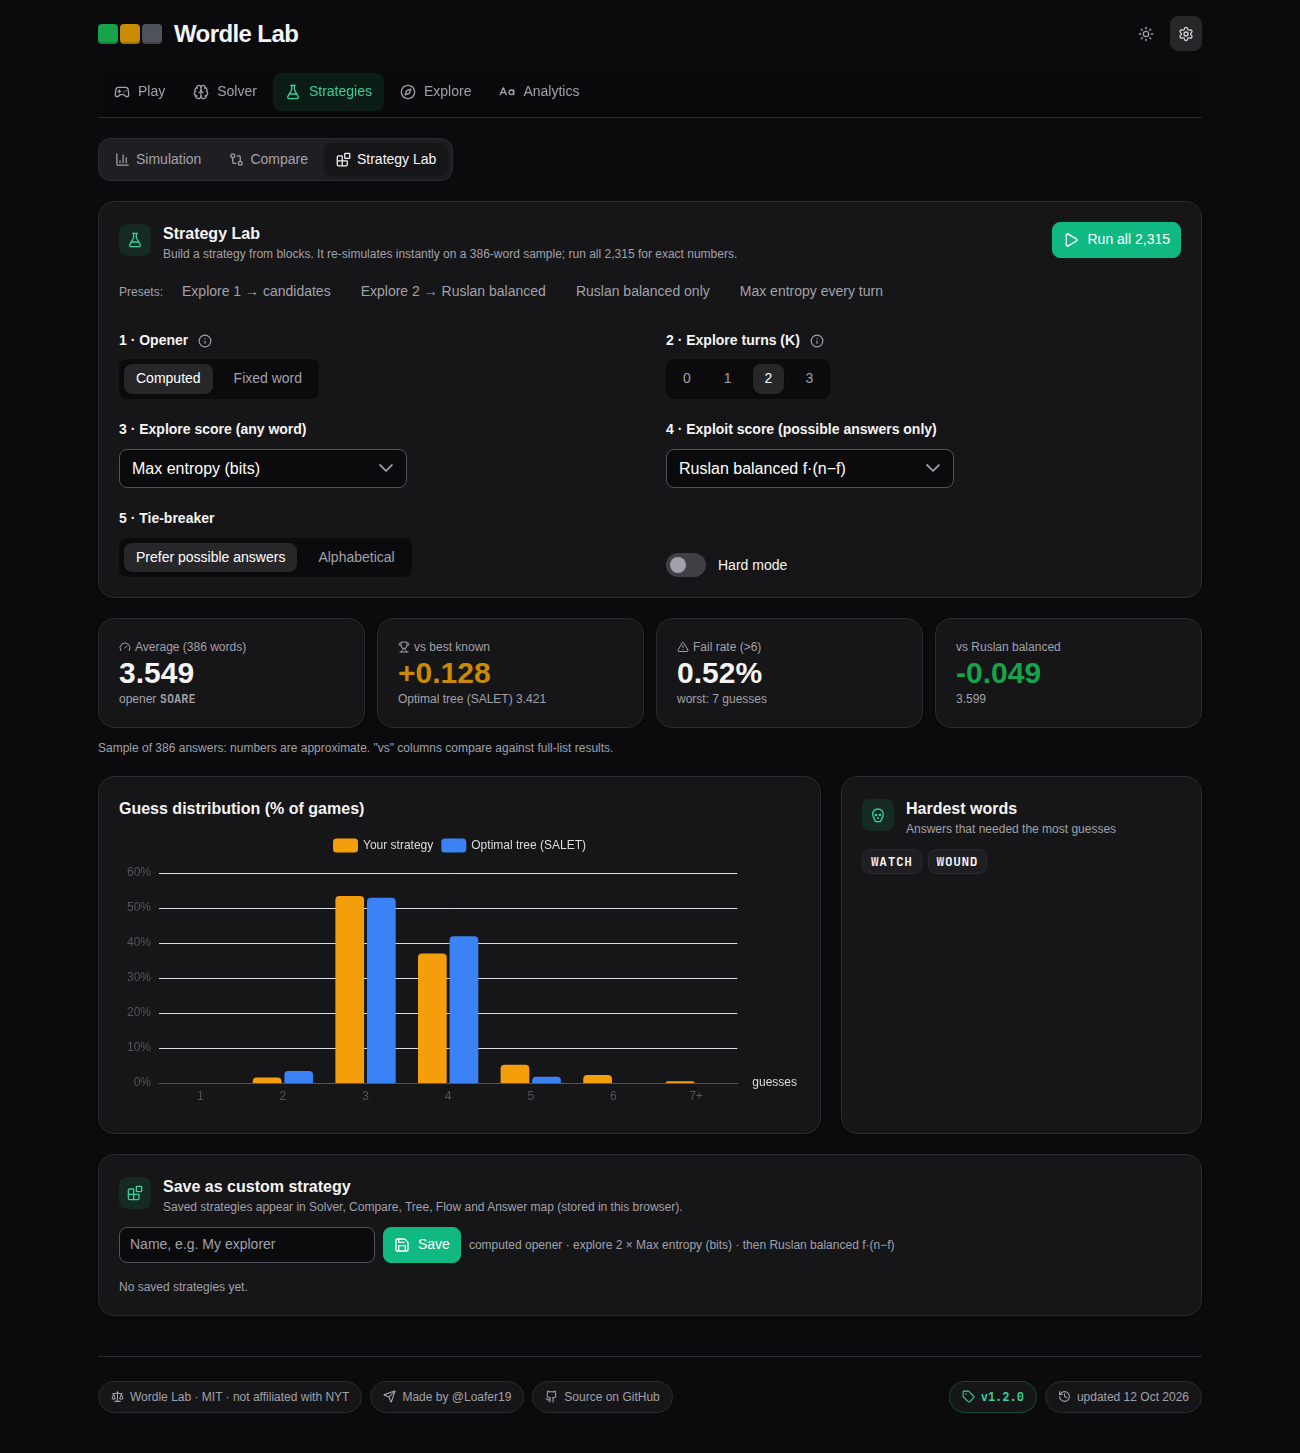
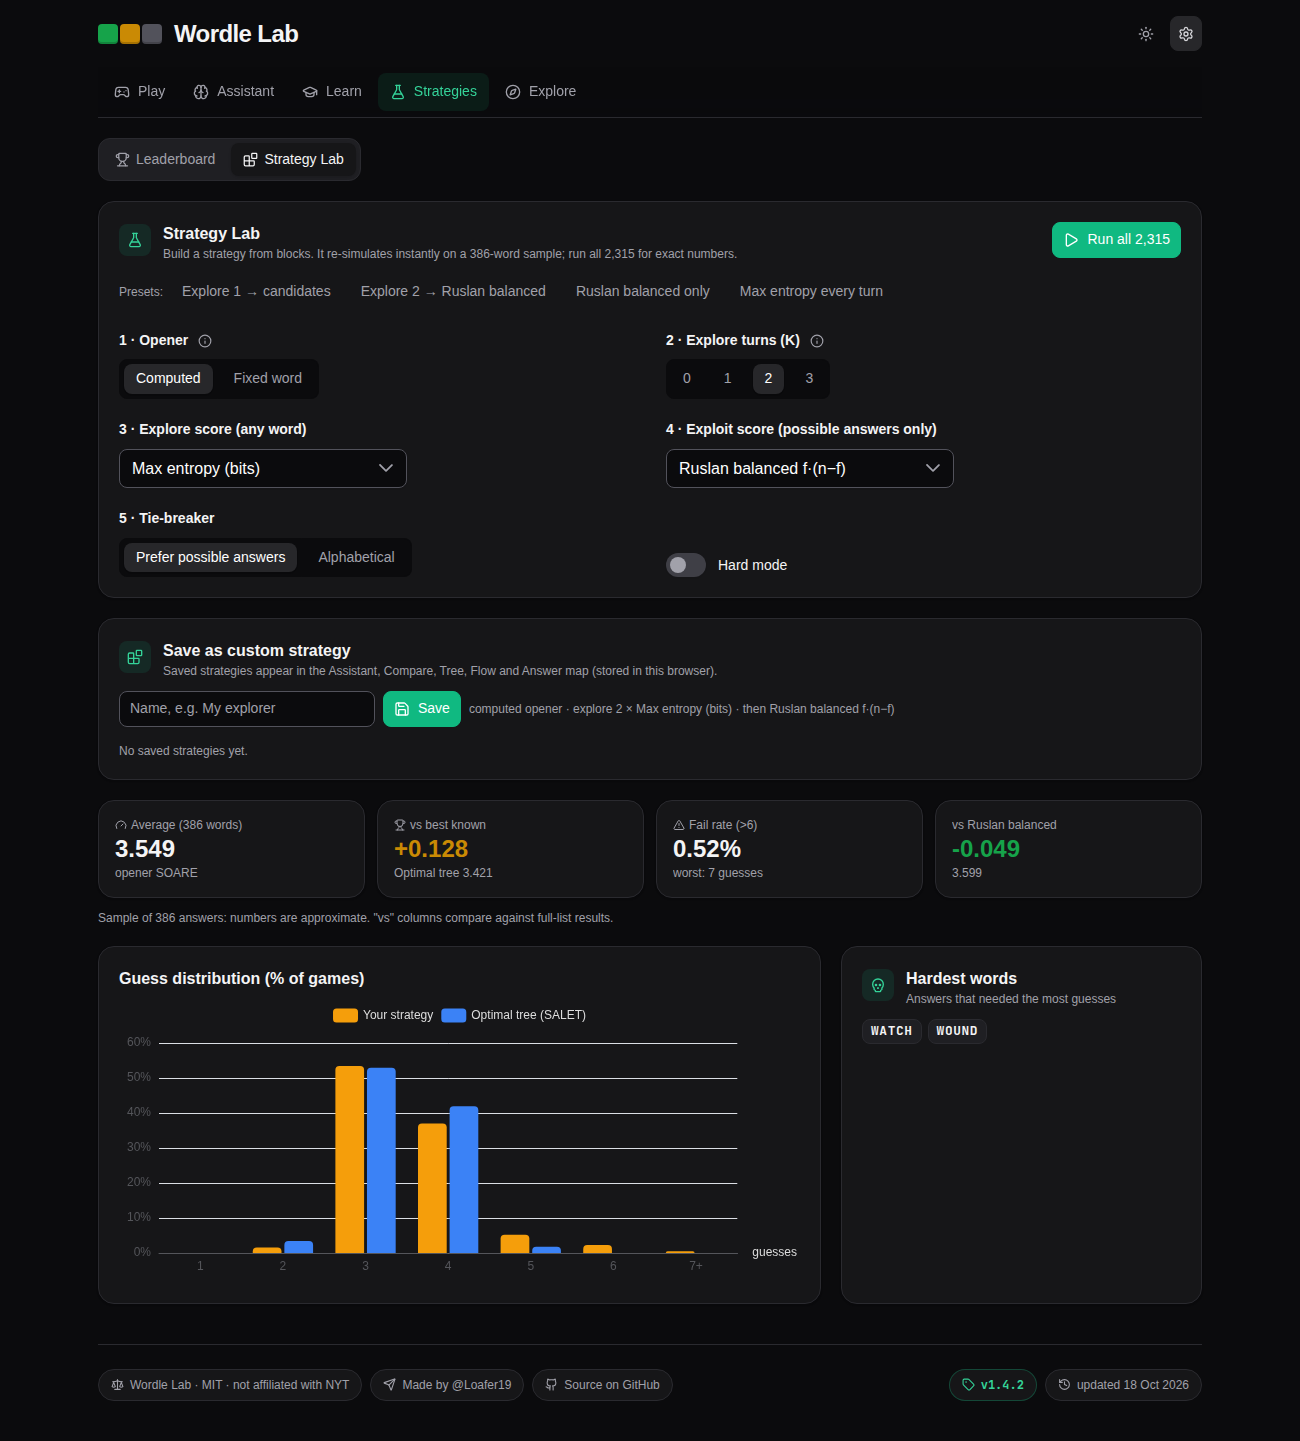
chore: v1.4.2 — CHANGELOG, README (feature list, refreshed screenshots in docs/readme via scripts/readme-shots.ts)

diff --git a/scripts/readme-shots.ts b/scripts/readme-shots.ts
@@ -1,0 +1,68 @@
+// README screenshots into docs/readme/ (run against a preview build so the footer shows the release version):
+//   bun run build && bunx vite preview --port 4173 & BASE_URL=http://localhost:4173 bun scripts/readme-shots.ts
+import { chromium, type Page } from 'playwright-core'
+const BASE = process.env.BASE_URL ?? 'http://localhost:4173', CHROME = process.env.CHROME ?? '/usr/bin/google-chrome-stable', OUT = process.env.OUT ?? 'docs/readme'
+const b = await chromium.launch({ executablePath: CHROME })
+const DESK = { width: 1300, height: 1000 }, PHONE = { width: 390, height: 844 }
+async function page(o: { lang?: 'en' | 'ua'; theme?: 'dark' | 'light'; vp?: { width: number; height: number }; motion?: boolean } = {}) {
+  const ctx = await b.newContext({ viewport: o.vp ?? DESK, deviceScaleFactor: o.vp === PHONE ? 2 : 1, reducedMotion: o.motion ? 'no-preference' : 'reduce' })
+  await ctx.addInitScript(([l, t]) => { localStorage.setItem('wl-lang', l); localStorage.setItem('vueuse-color-scheme', t) }, [o.lang ?? 'en', o.theme ?? 'dark'])
+  const p = await ctx.newPage(); const errs: string[] = []
+  p.on('pageerror', e => errs.push(e.message)); p.on('console', m => { if (m.type() === 'error') errs.push(m.text()) })
+  return { p, errs, close: () => ctx.close() }
+}
+const go = async (p: Page, tab: string, wait = 2200) => { await p.goto(`${BASE}/#tab=${tab}`); await p.reload(); await p.waitForTimeout(wait) }
+// the share text links to the current origin; show the public site instead of localhost
+const publicUrl = (p: Page) => p.evaluate(() => { const w = document.createTreeWalker(document.body, NodeFilter.SHOW_TEXT); for (let n = w.nextNode(); n; n = w.nextNode()) n.nodeValue = n.nodeValue!.replace(/https?:\/\/localhost:\d+\/?/g, 'https://wordle.fundsflow.fun') })
+const shot = async (p: Page, name: string, fullPage = true) => { await publicUrl(p); await p.screenshot({ path: `${OUT}/${name}.png`, fullPage }); console.log('✓', name) }
+const type = async (p: Page, w: string) => { for (const c of w) await p.click(`[role=group] button[aria-label="${c}"]`); await p.keyboard.press('Enter') }
+// today's daily answer, computed the way PlayView does
+const daily = (p: Page, lang: string) => p.evaluate(async l => {
+  const a = (await (await fetch((l === 'ua' ? '/ua/' : '/') + 'answers.txt')).text()).split(/\s+/).filter(Boolean)
+  const d = Math.floor((Date.now() - new Date(2021, 5, 19).getTime()) / 864e5); return a[(d * 7919) % a.length]
+}, lang)
+const all: string[] = []
+async function run(name: string, f: (p: Page) => Promise<void>, o: Parameters<typeof page>[0] = {}) {
+  if (process.env.ONLY && !process.env.ONLY.split(',').includes(name)) return
+  const { p, errs, close } = await page(o)
+  try { await f(p) } catch (e) { console.log('✗', name, (e as Error).message.slice(0, 300)) }
+  if (errs.length) all.push(`${name}: ${errs.join(' | ').slice(0, 300)}`)
+  await close()
+}
+
+await run('hero + play-after', async p => {
+  await go(p, 'play'); const ans = await daily(p, 'en')
+  await type(p, ans === 'crane' ? 'slate' : 'crane'); await p.waitForTimeout(1800); await type(p, ans); await p.waitForTimeout(2800)
+  await shot(p, 'hero', false)
+  await p.waitForSelector('[data-play-coach] [data-coach-step]', { timeout: 30000 }); await p.waitForSelector('[data-play-optimal] [data-replay-step]', { timeout: 30000 }); await p.waitForTimeout(1500)
+  await shot(p, 'play-after')
+}, { motion: true, vp: { width: 1400, height: 900 } })
+await run('leaderboard', async p => { await go(p, 'strategies&view=leaderboard'); await shot(p, 'leaderboard') })
+await run('ua-leaderboard', async p => { await go(p, 'strategies&view=leaderboard'); await shot(p, 'ua-leaderboard') }, { lang: 'ua' })
+await run('compare', async p => { await go(p, 'strategies&view=compare', 3000); await p.waitForSelector('[data-diffs]', { timeout: 30000 }); await p.waitForTimeout(800); await shot(p, 'dark-compare') })
+await run('light-compare', async p => { await go(p, 'strategies&view=compare', 3000); await p.waitForSelector('[data-diffs]', { timeout: 30000 }); await p.waitForTimeout(800); await shot(p, 'light-compare') }, { theme: 'light' })
+await run('lab', async p => { await go(p, 'strategies&view=lab', 4000); await p.waitForSelector('[data-lab-avg]'); await p.waitForTimeout(2500); await shot(p, 'dark-lab') })
+await run('assist', async p => { await go(p, 'assistant&view=solve'); await shot(p, 'dark-assist') })
+await run('review', async p => { await go(p, 'assistant&view=review'); await p.waitForSelector('[data-coach-step]', { timeout: 30000 }); await p.waitForTimeout(1000); await shot(p, 'review') })
+await run('watch', async p => {
+  await go(p, 'assistant&view=watch', 3000); await p.waitForSelector('[data-watch-review] [data-coach-step]', { timeout: 60000 })
+  await p.click('[data-watch-all]'); await p.waitForSelector('[data-watch-all-list] li', { timeout: 30000 }); await p.waitForSelector('[data-watch-cancel]', { state: 'detached', timeout: 120000 }); await p.waitForTimeout(800)
+  await shot(p, 'watch')
+})
+await run('openers', async p => { await go(p, 'learn&view=openers'); await shot(p, 'dark-openers') })
+await run('light-patterns', async p => { await go(p, 'learn&view=inspector'); await shot(p, 'light-patterns') }, { theme: 'light' })
+await run('tree', async p => { await go(p, 'explore&view=tree', 3000); await p.waitForSelector('canvas', { timeout: 20000 }); await p.waitForTimeout(1500); await shot(p, 'dark-tree') })
+await run('tree-opener', async p => {
+  await go(p, 'explore&view=tree', 3000); await p.waitForSelector('canvas', { timeout: 20000 })
+  await p.fill('[data-tree-opener]', 'crane'); await p.click('[data-tree-opener-apply]'); await p.waitForSelector('[data-tree-stat-row=cus]', { timeout: 90000 }); await p.waitForTimeout(1500)
+  await shot(p, 'tree-opener')
+})
+await run('flow', async p => { await go(p, 'explore&view=flow', 3000); await p.waitForTimeout(1500); await shot(p, 'dark-flow') })
+await run('map', async p => { await go(p, 'explore&view=map', 3000); await p.waitForTimeout(1500); await shot(p, 'dark-map') })
+await run('ua-play-mob', async p => {
+  await go(p, 'play'); const ans = await daily(p, 'ua'); await type(p, ans === 'котра' ? 'сопло' : 'котра'); await p.waitForTimeout(2200); await shot(p, 'ua-play-mob', false)
+}, { lang: 'ua', vp: PHONE })
+await run('leaderboard-mob', async p => { await go(p, 'strategies&view=leaderboard'); await shot(p, 'leaderboard-mob', false) }, { vp: PHONE })
+await run('tree-mob', async p => { await go(p, 'explore&view=tree', 3000); await shot(p, 'tree-mob', false) }, { vp: PHONE })
+await b.close()
+console.log(all.length ? 'console errors:\n' + all.join('\n') : 'no console errors')

diff --git a/README.md b/README.md
@@ -2,9 +2,10 @@
 
 # 🟩🟨⬛ Wordle Lab
 
-**Play Wordle, get a solver that explains every guess, and see how 13 strategies compare across all 2,315 answers.**
+**Play Wordle, get a solver that explains every guess, and see how 14 strategies compare across all 2,315 answers (and 1,717 Ukrainian ones).**
 
 [![Live demo](https://img.shields.io/badge/live%20demo-wordle.fundsflow.fun-16a34a?style=for-the-badge)](https://wordle.fundsflow.fun)
+[![Release](https://img.shields.io/github/v/release/Loafer19/wordle-lab?style=for-the-badge&color=16a34a)](https://github.com/Loafer19/wordle-lab/releases/latest)
 [![License: MIT](https://img.shields.io/badge/license-MIT-blue?style=for-the-badge)](LICENSE)
 <br/>
 ![Bun](https://img.shields.io/badge/Bun-000?logo=bun&logoColor=fff)
@@ -14,7 +15,7 @@
 ![PrimeVue](https://img.shields.io/badge/PrimeVue%204-41B883)
 ![ECharts](https://img.shields.io/badge/ECharts-AA344D?logo=apacheecharts&logoColor=fff)
 
-<img src="docs/readme/hero.png" alt="Wordle Lab: a winning game with confetti" width="860" />
+<img src="docs/readme/hero.png" alt="Wordle Lab: a daily game won in two, with the share card, stats and the word's meaning" width="860" />
 
 </div>
 
@@ -22,22 +23,23 @@
 
 | | |
 |---|---|
-| 🎮 **Play** | Daily word with a countdown to the next one, or random games. Hard mode, flip/bounce/confetti animations, stats and the **word's meaning**. After each game: a per-guess **review**, **how the optimal strategy solves the same word**, and a **share card** with your skill and luck. Your **player fingerprint** tracks skill and luck over time (stored in your browser). |
-| 🧭 **Assistant** | **Help me now:** type your guess, tap the tiles to match your colours, and get the next best word with a plain-language reason (undo, demo, shortcuts, the provably optimal tree). **Review a game:** paste any result, e.g. `ARISE(⬜⬜⬜🟨⬜) CLOTH(⬜⬜🟩🟨⬜)`. **Watch a strategy:** pick a word and a strategy and watch it play. All three use the same per-guess card: bits gained vs expected, the best move by entropy and by the optimal tree, luck, and tips. |
-| 🎓 **Learn** | A four-step **guide** (letters → patterns → entropy → trees), letter and positional frequencies, the **top openers**, and the **Word inspector** (all 243 colour patterns of any guess, its entropy and its worst case). The opener-pairs heatmap is under *Advanced*. |
-| 🧪 **Strategies** | One **leaderboard** of every strategy on every answer: average, gap to the proven optimum, fail % and worst case, with Normal/Hard/Both. Tick two rows to **Compare** them. The **Strategy Lab** builds a strategy from blocks and saves it for the other views. More charts and Web Worker re-runs (cached in IndexedDB) are collapsed. |
-| 🔭 **Explore** | The optimal decision **Tree**, a **Flow** sankey of how the answer set shrinks, and an **Answer map** of how hard each word is. On phones, Tree and Flow switch to list drill-downs. |
-| 🇺🇦 **Ukrainian** | EN/UA switch in Settings: the whole interface in Ukrainian, Ukrainian word lists, a ЙЦУКЕН keyboard (ґ, є, і, ї), and every strategy simulated on Ukrainian answers. |
+| 🎮 **Play** | Daily word with a countdown to the next one, or random games. Hard mode, flip/bounce/confetti animations, stats and the **word's meaning**. After each game: a per-guess **review**, **how the optimal strategy solves the same word**, and a **share card** with your skill and luck. Your **player fingerprint** tracks skill and luck over time (stored in your browser). Cards follow the game: before the first guess you see your stats; during a game the **possible words** and **information per guess** come first (stats shrink to one line); after it the share card leads. On phones the board and keyboard always come first. |
+| 🧭 **Assistant** | **Help me now:** type your guess, tap the tiles to match your colours, and get the next best word with a plain-language reason (undo, demo, shortcuts, the provably optimal tree). The how-to hides once you have entered a guess. **Review a game:** paste any result, e.g. `ARISE(⬜⬜⬜🟨⬜) CLOTH(⬜⬜🟩🟨⬜)`. **Watch a strategy:** pick a word and a strategy and watch it play, optionally next to a second one; *Every strategy on this word* sits right under the replay, above the long guess-by-guess review. All three use the same per-guess card: bits gained vs expected, the best move by entropy and by the optimal tree, luck, and tips. |
+| 🎓 **Learn** | A four-step **guide** (letters → patterns → entropy → trees), letter and positional frequencies, the **top openers** (the at-a-glance table first, then the chart), and the **Word inspector** (all 243 colour patterns of any guess, its entropy and its worst case). The opener-pairs heatmap is under *Advanced*. |
+| 🧪 **Strategies** | One **leaderboard** of every strategy on every answer: average, gap to the proven optimum, fail % and worst case, with Normal/Hard/Both. Tick two rows to **Compare** them: KPIs, then the **biggest differences**, then the distributions chart. The **Strategy Lab** builds a strategy from blocks, with *Save as custom strategy* right under the builder, so saved strategies show up in the other views. More charts and Web Worker re-runs (cached in IndexedDB) are collapsed. |
+| 🔭 **Explore** | The optimal decision **Tree**, which you can also rebuild from **your own starting word** (computed in a Web Worker, with a *default vs. yours* table of average, worst case and the guess distribution, remembered per language), a **Flow** sankey of how the answer set shrinks, and an **Answer map** of how hard each word is. On phones, Tree and Flow switch to list drill-downs. |
+| 🇺🇦 **Ukrainian** | EN/UA switch in Settings: the whole interface in Ukrainian (Гра · Асистент · Навчання · Стратегії · Дослідження), Ukrainian word lists, a ЙЦУКЕН keyboard (ґ, є, і, ї), and every strategy simulated on Ukrainian answers. |
 | 📖 **Word meanings** | Click any word for its definition (dictionaryapi.dev with Wiktionary as a fallback; UA words link to Горох, СУМ-20 and sum.in.ua). |
 
 Every tab and sub-view is a real link, e.g. `#tab=explore&view=tree`, so you can open views in new tabs and share them. Links from older versions (`#tab=solver`, `#tab=coach`, `#tab=analytics&view=patterns`, …) redirect to their new places. On phones the five tabs are a bottom bar.
 
 <table>
-<tr><td><img src="docs/screenshots/round11/en-play-after.png" alt="Play: review, optimal replay, share card, fingerprint"/></td><td><img src="docs/screenshots/round11/strategies-leaderboard_en_desk.png" alt="Strategy leaderboard"/></td></tr>
-<tr><td><img src="docs/screenshots/round11/assistant-watch_en_desk.png" alt="Assistant: watch a strategy"/></td><td><img src="docs/screenshots/round11/learn-inspector_en_desk.png" alt="Learn: word inspector"/></td></tr>
-<tr><td><img src="docs/readme/dark-tree.png" alt="Tree"/></td><td><img src="docs/readme/dark-flow.png" alt="Flow"/></td></tr>
+<tr><td><img src="docs/readme/play-after.png" alt="Play after a game: share card, stats, word meaning, review, optimal replay, fingerprint"/></td><td><img src="docs/readme/leaderboard.png" alt="Strategy leaderboard"/></td></tr>
+<tr><td><img src="docs/readme/watch.png" alt="Assistant: watch a strategy, every strategy on this word, then the review"/></td><td><img src="docs/readme/tree-opener.png" alt="Tree built from your own starting word (CRANE) compared with SALET"/></td></tr>
+<tr><td><img src="docs/readme/light-compare.png" alt="Compare (light theme): biggest differences above the chart"/></td><td><img src="docs/readme/dark-flow.png" alt="Flow"/></td></tr>
+<tr><td><img src="docs/readme/light-patterns.png" alt="Learn: word inspector (light theme)"/></td><td><img src="docs/readme/ua-leaderboard.png" alt="Ukrainian leaderboard"/></td></tr>
 </table>
-<p align="center"><img src="docs/screenshots/round11/play_ua_mob.png" alt="UA on a phone" width="240"/> <img src="docs/screenshots/round11/strategies-leaderboard_en_mob.png" alt="Leaderboard as cards on a phone" width="240"/> <img src="docs/screenshots/round11/explore-tree_en_mob.png" alt="Tree drill-down on a phone" width="240"/></p>
+<p align="center"><img src="docs/readme/ua-play-mob.png" alt="UA on a phone" width="240"/> <img src="docs/readme/leaderboard-mob.png" alt="Leaderboard as cards on a phone" width="240"/> <img src="docs/readme/tree-mob.png" alt="Tree with a custom starting word and the list drill-down on a phone" width="240"/></p>
 
 ## 🏁 Strategy results
 
@@ -99,7 +101,7 @@ How much the second guess matters: [docs/analysis-second-step.md](docs/analysis-
 
 After every Play game (daily or random, EN and UA) each guess is reviewed: candidates before → after, the bits you actually gained versus the bits that guess was expected to give, the best guess by entropy (hard-mode legal in hard mode) and the optimal-tree move while you are still on the tree, a luck indicator, and short tips (reused grey letters, a yellow letter put back in the same spot, cluster traps, when a non-candidate would have helped). Below it, the optimal strategy plays the same word, and the share card adds your **skill** (the share of the best expected information your guesses achieved) and **luck** (bits gained minus bits expected). Every finished game feeds your **fingerprint**: average skill and its trend, average luck, average guesses, and the strategy whose average is closest to yours. *Assistant › Review a game* does the same for any game you paste.
 
-<img src="docs/screenshots/round10/en-coach-tab.png" alt="Game review" width="720"/>
+<img src="docs/readme/review.png" alt="Assistant › Review a game" width="720"/>
 
 ## 🧮 How it works
 
@@ -112,7 +114,7 @@ $$P(p) = \frac{|S_p|}{|S|}, \qquad H(g) = -\sum_{p} P(p)\,\log_2 P(p)$$
 * **Entropy** picks the guess with the highest *H*. **Two-step** adds the expected entropy of the best follow-up guess in each group.
 * **Minimax** minimises maxₚ |*Sₚ*|. **Expected size** minimises Σ |*Sₚ*|² / |*S*|.
 * **Letter frequency**: if *f* is the number of candidates containing a letter and *n* the number of candidates, the balanced score is *f·(n−f)*. It rewards letters that split the candidates roughly in half.
-* **Optimal** follows a precomputed decision tree that minimises the total number of guesses over all answers. It is verified on load, and if your guesses leave the tree it falls back to two-step.
+* **Optimal** follows a precomputed decision tree that minimises the total number of guesses over all answers. It is verified on load, and if your guesses leave the tree it falls back to two-step. In *Explore › Tree* you can start from any allowed word instead: the first guess is yours and every later move is chosen by max entropy (the precomputed tree only covers its own opener).
 
 Feedback is encoded in base 3 (gray 0, yellow 1, green 2), so 242 means all green. Duplicate letters are handled exactly as Wordle does.
 
@@ -123,10 +125,11 @@ bun install
 bun run dev          # http://localhost:5173
 bun run build        # static site in dist/
 bun run simulate     # recompute public/sim/*, results.json, optimal tree, opener pairs
-bun run test:unit    # engine, coach, routes/redirects, fingerprint
+bun run test:unit    # engine, coach, routes/redirects, fingerprint, custom-opener trees
 bun run test:e2e     # Playwright regression tests against the dev server (needs Chrome; CHROME=/path, BASE_URL=… to override)
 bun scripts/i18n-check.ts           # every UI string has a Ukrainian translation
 OUT=shots bun scripts/shots.ts      # screenshots of every view (EN/UA × desktop/390px) + overflow/console check
+BASE_URL=http://localhost:4173 bun scripts/readme-shots.ts  # README images in docs/readme/ (against `vite preview`)
 bun run definitions  # optional: precompute word meanings into data/ and public/
 ```
 

diff --git a/CHANGELOG.md b/CHANGELOG.md
@@ -2,6 +2,27 @@
 
 All notable changes to this project are documented here. The format follows [Keep a Changelog](https://keepachangelog.com/en/1.1.0/) and the project uses [Semantic Versioning](https://semver.org/).
 
+## [1.4.2] - 2026-10-18
+
+Card order that follows what you are doing, and your own starting word in the decision tree.
+
+### Added
+- **Explore › Tree: your own starting word.** Type any allowed 5-letter word (Ukrainian letters in UA) and *Build tree*: the first guess is yours and every later move is chosen by max entropy, since the precomputed optimal tree only covers its own opener. The tree is built in a Web Worker with a progress bar, a table compares the default opener with yours (average, worst case, guess distribution), and the word is remembered per language until you *Reset*. Invalid words are explained inline.
+
+### Changed
+- **Play:** the right-hand cards follow the game. Before the first guess: stats and fingerprint. While playing: *Words still possible* and *Information per guess* first, then a one-line stats summary. After the game: share card, stats, word meaning, review, optimal replay, fingerprint. On phones the board and keyboard stay on top.
+- **Assistant › Help me now:** the how-to steps hide after the first guess, so the suggestion moves up.
+- **Assistant › Watch a strategy:** *Every strategy on this word* now comes right after the replay, above the long guess-by-guess review.
+- **Strategies › Strategy Lab:** *Save as custom strategy* sits directly under the builder, above the results.
+- **Strategies › Compare:** *Biggest differences* comes before the guess-distribution chart.
+- **Learn › Top openers:** the *Openers at a glance* table comes before the chart.
+- Faster max-entropy picker (byte-encoded feedback with reused buckets), used when building custom-opener trees.
+- README: refreshed screenshots (all in `docs/readme/`, taken from the v1.4.2 build with `scripts/readme-shots.ts`) and the feature list.
+
+### Tests
+- Unit: custom-opener trees cover every answer in EN and UA and start with the opener; the fast feedback and fast max entropy agree with the engine; tree strategies fall back to max entropy after a custom opener.
+- e2e: Play card order by phase (EN/UA, desktop and phone); the tree opener (validation, worker build, comparison, persistence, reset); the new card order in Watch, Lab, Compare and Top openers (EN/UA). Fixed a race in *Coach tab analyses a pasted game*, which could read the default example's review before the pasted game's.
+
 ## [1.4.1] - 2026-10-14
 
 Finishes the two items that v1.4.0 skipped or limited.
